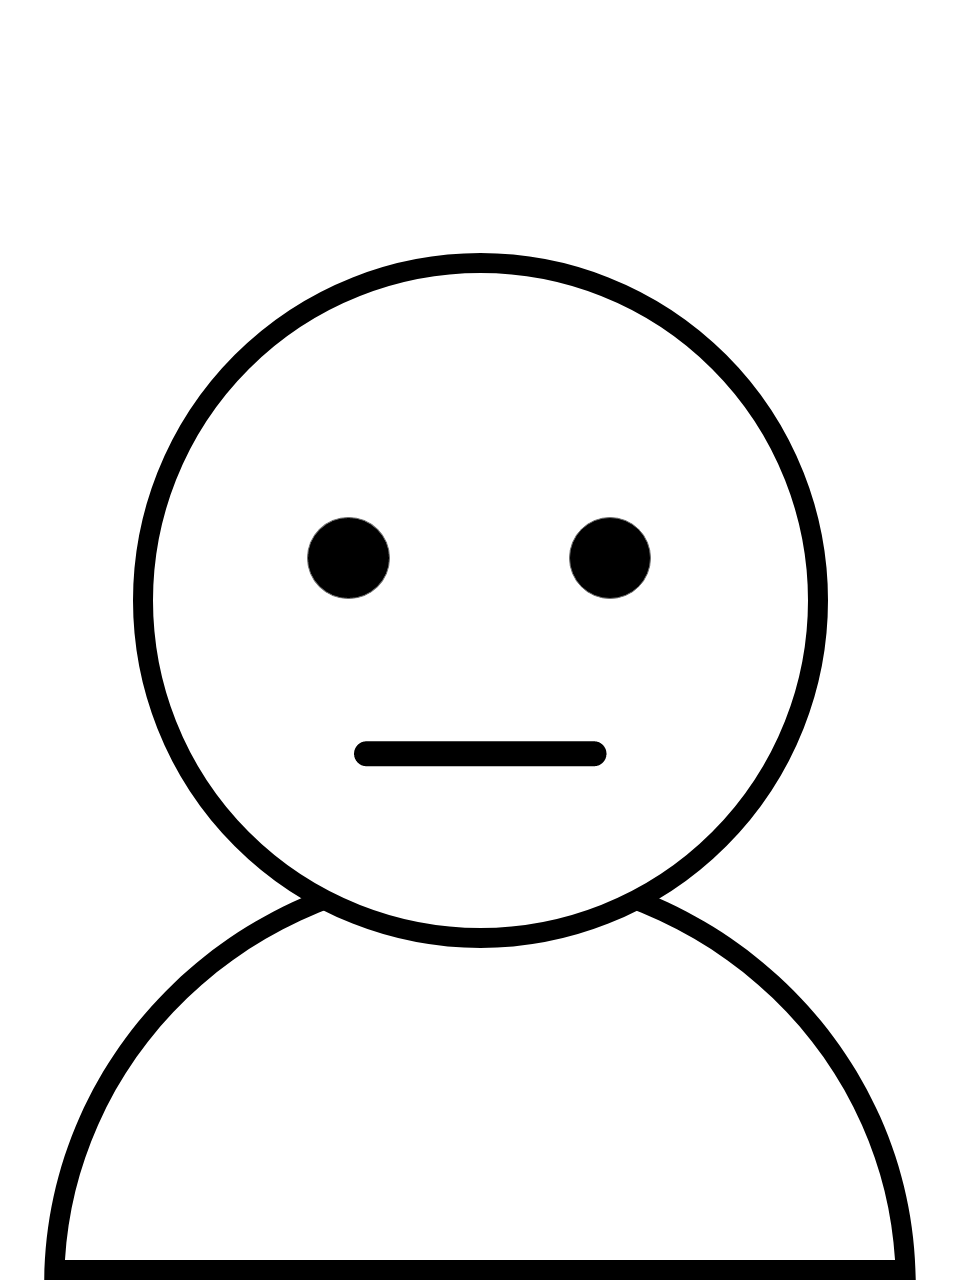
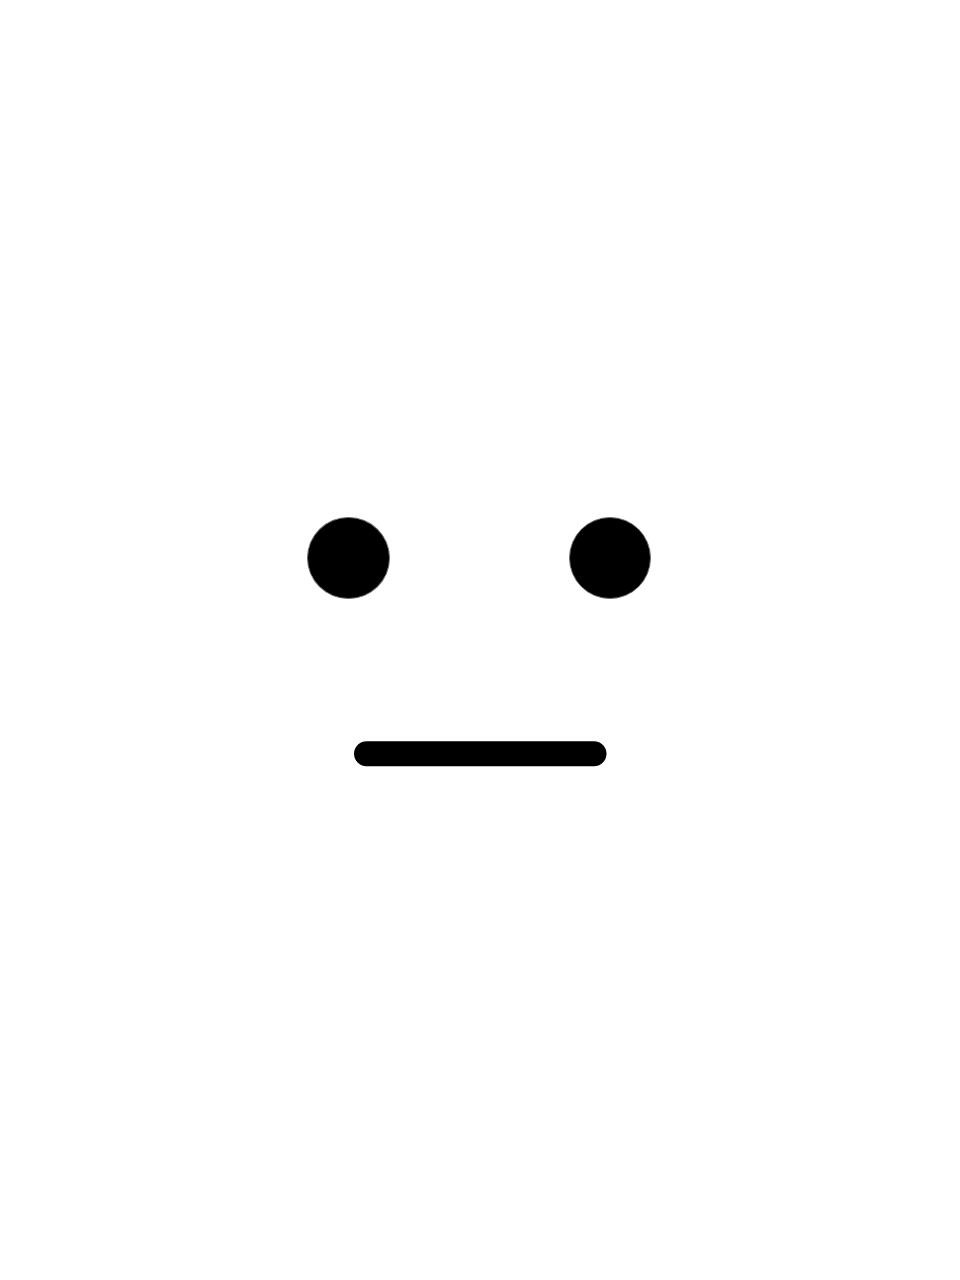
Form 스타일 수정

Changed region(s): [[0.0312, 0.1875, 0.9688, 1.0]]

diff --git a/src/components/Form.tsx b/src/components/Form.tsx
@@ -1,6 +1,11 @@
 import React from 'react';
 import styled from './theme';
+import { css } from 'styled-components';
 import facesample2 from './imgs/facesample2.png';
+import titleImg from './imgs/title-thin2.png';
+import { TiAttachmentOutline } from 'react-icons/ti';
+import { FaCheck } from 'react-icons/fa';
+import { darken, lighten } from 'polished';
 
 type FormProps = {
     imageUrl: string;
@@ -19,15 +24,104 @@ function Form({
     const Form = styled.div`
       background-color: ${props => props.theme.color.ivory};
       width: 52rem;
-      margin-top: 2rem;
+      box-shadow: 4px 4px 4px grey;
+      margin-top: 1rem;
       border-radius: 1rem;
+      border: solid 2px ${props => props.theme.color.darkbrown};
+      display: flex;
+      justify-content: center;
+      align-items: center;
+      flex-direction: column;
     `;
+
+    const TitleImg = styled.img`
+      margin-top: 2rem;
+      width: 47rem;
+      height: auto;
+    `;
+
+    const FaceImg = styled.img`
+      width: 26rem;
+      height: auto;
+      background: #000;
+      border-radius: 1rem;
+      border: 2px solid #000;
+      margin-top: 2rem;
+    `;
+
+    const Desc = styled.h6`
+      margin-top: 2rem;
+      line-height: 1.5;
+      text-align: center;
+      font-size: 1.5rem;
+    `
+    const Button = styled.button`
+      width: 10rem;
+      height: 5rem;
+      border-radius: 1rem;
+      border: none;
+      margin-top: 1rem;
+      display: flex;
+      justify-content: center;
+      align-items: center;
+      cursor: pointer;
+      font-family: yangjin;
+
+      ${props => {
+        const color = props.color!
+        const selected = props.theme.color[color];
+        return css`
+          background: ${selected};
+          &:hover {
+            background: ${lighten(0.1, selected)};
+          }
+          &:active {
+            background: ${darken(0.1, selected)};
+          }
+          `;
+        }};
+    `
+    const ButtonWrapper = styled.div`
+        display: flex;
+        flex-direction: row;
+        width: 100%;
+        height: 7rem;
+        position: relative;
+        justify-content: flex-start;
+    `
+
+    // left: 50%;
+    // transform: translateX(-50%);
 
     return (
       <Form>
-        <img alt='faceImg' src={src || facesample2} />
-        <button onClick={onOpen}>모달!</button>
-        <button onClick={onSubmit}>완료!</button>
+        <TitleImg src={titleImg}/>
+        <Desc>
+          분석하길 원하는 얼굴을 첨부하여 제출해주세요! <br />
+          인간안면분석기가 AI를 통해 당신의 얼굴을 분석합니다. <br />
+          이를 통해 당신의 닮은꼴 연예인, 성별, 나이, 감정을 추측해냅니다.
+        </Desc>
+        <FaceImg alt='faceImg' src={src || facesample2} />
+        <ButtonWrapper>
+          <Button 
+            onClick={onOpen} 
+            color='yellow'
+            style={{
+              position: 'absolute',
+              left: '50%',
+              transform: 'translateX(-50%)'
+            }}>
+            <TiAttachmentOutline size='3.5rem' color='white'/>
+          </Button>
+          <Button onClick={onSubmit} 
+            color='green' 
+            style={{
+              position: 'absolute',
+              right: '1rem',
+            }}>
+            <FaCheck size='3rem' color='white'/>
+          </Button>
+        </ButtonWrapper>
       </Form>
     );
 }

diff --git a/src/App.tsx b/src/App.tsx
@@ -25,6 +25,7 @@ const App: React.FC = () => {
     body{
         font-family: YangJin, -apple-system, BlinkMacSystemFont, 'Segoe UI', Roboto, Oxygen, Ubuntu, Cantarell, 'Open Sans', 'Helvetica Neue', sans-serif;
         font-size: 16px;
+
         background-color: #F2E3B3;
     }
   `;
@@ -36,6 +37,8 @@ const App: React.FC = () => {
     display: flex;
     justify-content: center;
     align-items: center;
+    box-shadow: 0 2px #000000;
+    position: fixed;
   `
 
   const HeaderLogo = styled.img`
@@ -47,6 +50,7 @@ const App: React.FC = () => {
     display: flex;
     justify-content: center;
     align-items: center;
+    padding-top: 4rem;
   `
 
   return (

diff --git a/src/components/theme.tsx b/src/components/theme.tsx
@@ -1,6 +1,12 @@
 import baseStyled, { ThemedStyledInterface } from 'styled-components';
 
-export const theme = {
+type Theme = {
+  color: {
+    [code: string]: string;
+  }
+}
+
+export const theme:Theme = {
     color: {
         red: '#F24C27',
         yellow: '#F2B807',
@@ -11,7 +17,7 @@ export const theme = {
     }
   };
 
-export type Theme = typeof theme;
+// export type Theme = typeof theme;
 
 const styled = baseStyled as ThemedStyledInterface<Theme>;
 
